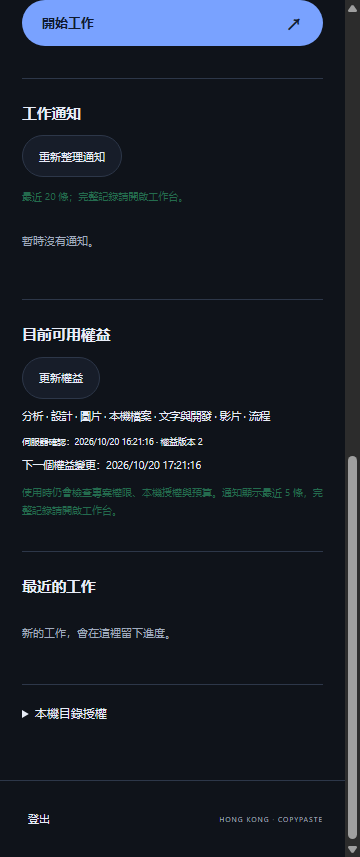
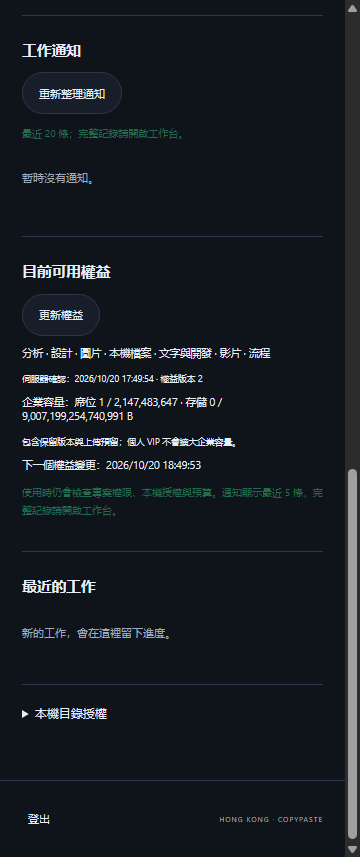
Show workspace resource capacity in native side panel

diff --git a/src/panel.ts b/src/panel.ts
@@ -237,9 +237,10 @@ async function entitlements() {
   notices.replaceChildren();
   if (!scope) return;
   try {
-    const [current, inbox] = await Promise.all([
+    const [current, inbox, resources] = await Promise.all([
       request("/v1/effective-entitlements"),
       request("/v1/entitlement-notifications?limit=5"),
+      request(`/v1/tenants/${scope}/resource-usage`),
     ]);
     if (
       scope !== tenant ||
@@ -271,6 +272,34 @@ async function entitlements() {
       tr("權益版本 ", "Entitlement version ") +
       current.entitlement_version;
     summary.append(at);
+    const capacity = document.createElement("p");
+    capacity.textContent =
+      tr("企業容量：席位 ", "Workspace capacity: seats ") +
+      resources.seats.used.toLocaleString() +
+      " / " +
+      resources.seats.limit.toLocaleString() +
+      " · " +
+      tr("存儲 ", "storage ") +
+      BigInt(resources.storage.total_bytes).toLocaleString() +
+      " / " +
+      BigInt(resources.storage.limit_bytes).toLocaleString() +
+      " B";
+    summary.append(capacity);
+    const storageNote = document.createElement("small");
+    storageNote.textContent = tr(
+      "包含保留版本與上傳預留；個人 VIP 不會擴大企業容量。",
+      "Includes retained versions and upload reservations. Personal VIP does not enlarge workspace capacity.",
+    );
+    summary.append(storageNote);
+    if (resources.seats.over_limit || resources.storage.over_limit) {
+      const warning = document.createElement("p");
+      warning.setAttribute("role", "status");
+      warning.textContent = tr(
+        "已超出企業容量。完成清理或聯絡管理員調整企業方案後，再新增佔用。",
+        "Workspace capacity is exceeded. Complete cleanup or contact an administrator to change the workspace plan before adding capacity.",
+      );
+      summary.append(warning);
+    }
     if (current.expires_at) {
       const end = document.createElement("p");
       end.textContent =

diff --git a/README.en.md b/README.en.md
@@ -184,3 +184,9 @@ Manual and 15-second refresh show server-merged personal/current-workspace right
 ![Actual server entitlement revision after suspension](assets/screenshots/16-vip-suspended-rights.png)
 
 Verification triggers the actual browser action and attaches CDP to the native panel; an ordinary `sidepanel.html` tab is not substituted. Build with `npm run build`, then load `dist/` from Chrome's extension manager. The adjacent Delivery repository records the current ZIP and byte digests with `package:surfaces`.
+
+## Enterprise seat and storage enforcement (stage 48)
+
+The actual native Side Panel entitlement summary now includes workspace seats, retained bytes, pending upload reservations, limits and over-limit state. Byte values use BigInt. Existing workspace/project/session guards remain active, and personal VIP does not change shared workspace capacity. Clicking the extension action still opens the browser side panel; owned QA pages and browsers are closed afterward.
+
+![Actual native Side Panel](assets/screenshots/15-vip-effective-rights.png)

diff --git a/README.md b/README.md
@@ -206,3 +206,9 @@ flowchart LR
 ![实际暂停后的服务端权益版本](assets/screenshots/16-vip-suspended-rights.png)
 
 验收使用实际浏览器 action 触发与 CDP 附着真实侧栏，未把 `sidepanel.html` 当普通网页替代。构建 `npm run build`；在 Chrome 扩展管理页加载 `dist/`。当前 ZIP 和字节摘要由相邻 Delivery 仓库的 `package:surfaces` 统一记录。
+
+## 企业席位与存储执行（阶段 48）
+
+真实原生 Side Panel 的权益摘要新增企业席位、保留字节、上传预留、上限及超额状态。字节用 BigInt 显示，企业/项目及登录上下文限制继续执行；个人 VIP 不改变共用企业容量。点击扩展图标在浏览器侧栏出现的方式保持有效，关闭自建验收页面后不留下额外标签页。
+
+![实际原生侧栏](assets/screenshots/15-vip-effective-rights.png)
